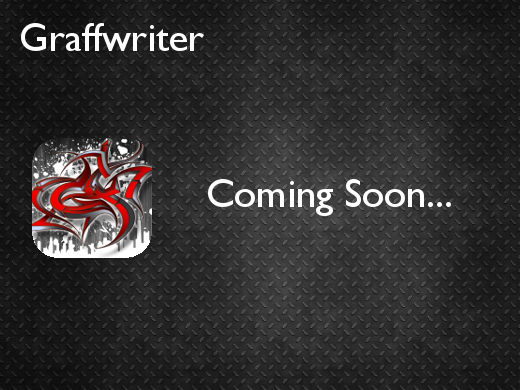
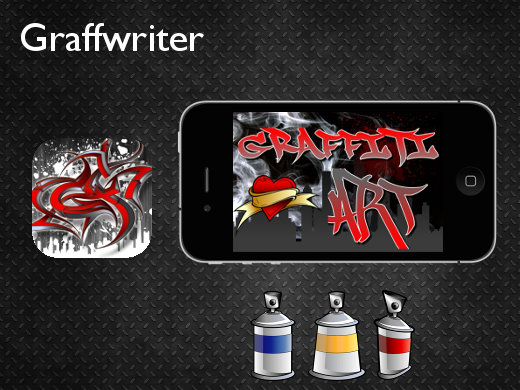
portfolio page image and summary

diff --git a/apps/graffwriter.html b/apps/graffwriter.html
@@ -58,7 +58,7 @@
 											</div>
 										</div>
 										<div class="3u 12u$(mobile)">
-											<h5>For iPhone (iOS 6)</h5>
+											<h5>For iPhone</h5>
 											<table class="versions">
 												<thead>
 													<tr><th>Version</th><th>Finished</th></tr>
@@ -89,7 +89,7 @@
 												The user may save and load editable artboard files, as well as export images to their device, and share artwork with friends through Facebook and email.
 											</p>
 											<p>
-												The app initially includes a selection of fonts and pieces of artwork amoung different categories.  Additional fonts and artwork is available to download via in-app purchasing.
+												The app initially includes a selection of fonts and pieces of artwork among different categories.  Additional fonts and artwork is available to download via in-app purchasing.
 											</p>
 											<p>
 												I developed Graffwriter for a client while working at an agency in 2012.  The client provided an initial design document, and all graphical and font resources used in the app. I was the sole developer working on all aspects from beginning to end, including planning &amp; architecture, UI/UX coding &amp; design, native Objective-C programming, and managing graphical resources.

diff --git a/index.html b/index.html
@@ -238,7 +238,7 @@
 											<img src="images/icon_graffwriter.png" alt="Graffwriter">
 											<h2>Graffwriter</h2>
 											<p>
-												TODO
+												Graffwriter is a fun vector graphics editor using fonts, images, color controls, and effects to allow the user to create custom graffiti artwork saying any word or phrase that they choose.  Using layers to organize text and art objects, the iPhone user can quickly create unique artwork for any imaginable purpose.
 											</p>
 										</div>
 									</div>
